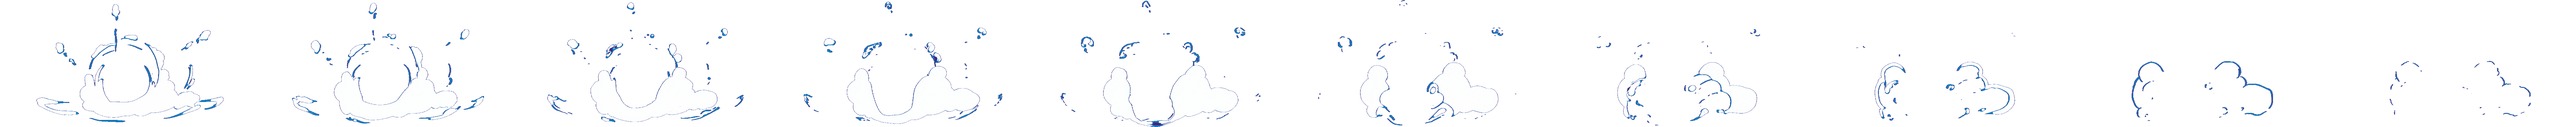
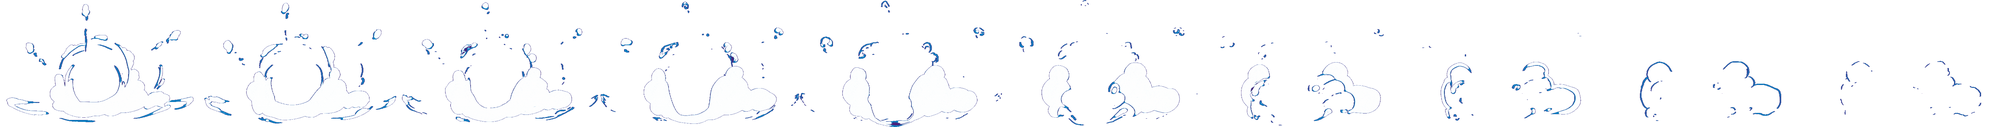
update smoke

diff --git a/src/gameApp/gameObjects/Builder.ts b/src/gameApp/gameObjects/Builder.ts
@@ -6,12 +6,13 @@ import {Draw} from '../gameSystems/Draw';
 
 import SmokeImage from '../../assets/img/smoke.png'; 
 
+/** Режим строительства */
 export class Builder {
 
 	static selectedBuildingForBuild: Building | null = null; //выбранное строение для постройки
 	static smokeImage: HTMLImageElement = new Image();  
-	static isDrawSmoke: boolean = false;
-	static buildTime: number;
+	static isDrawSmoke: boolean = false; //пора отрисовывать дым при постройке?
+	static buildTime: number; //время постройки
 	static readonly smokeFrames: number = 10; 
 	static readonly smokeLifeTime: number = 1000; //в миллисекундах
 
@@ -57,15 +58,16 @@ export class Builder {
 		if(this.selectedBuildingForBuild){
 			if(this.isDrawSmoke){
 				let frame = isGameOver ? 0 : Math.floor((Date.now() - this.buildTime) / this.smokeLifeTime * this.smokeFrames);
-				let newHeight = this.smokeImage.height * (200 / (this.smokeImage.width / this.smokeFrames));
+				let smokeWidth = this.selectedBuildingForBuild.width * 2;
+				let newHeight = this.smokeImage.height * (smokeWidth / (this.smokeImage.width / this.smokeFrames));
 				Draw.ctx.drawImage(this.smokeImage, 
 					this.smokeImage.width / this.smokeFrames * frame, //crop from x
 					0, //crop from y
 					this.smokeImage.width / this.smokeFrames, //crop by width
 					this.smokeImage.height,    //crop by height
-					this.selectedBuildingForBuild.x, //draw from x
+					this.selectedBuildingForBuild.x - this.selectedBuildingForBuild.width / 2, //draw from x
 					this.selectedBuildingForBuild.y + this.selectedBuildingForBuild.height - newHeight,  //draw from y
-					this.selectedBuildingForBuild.width, //draw by width 
+					smokeWidth, //draw by width 
 					newHeight); //draw by height 
 			}
 			else{
